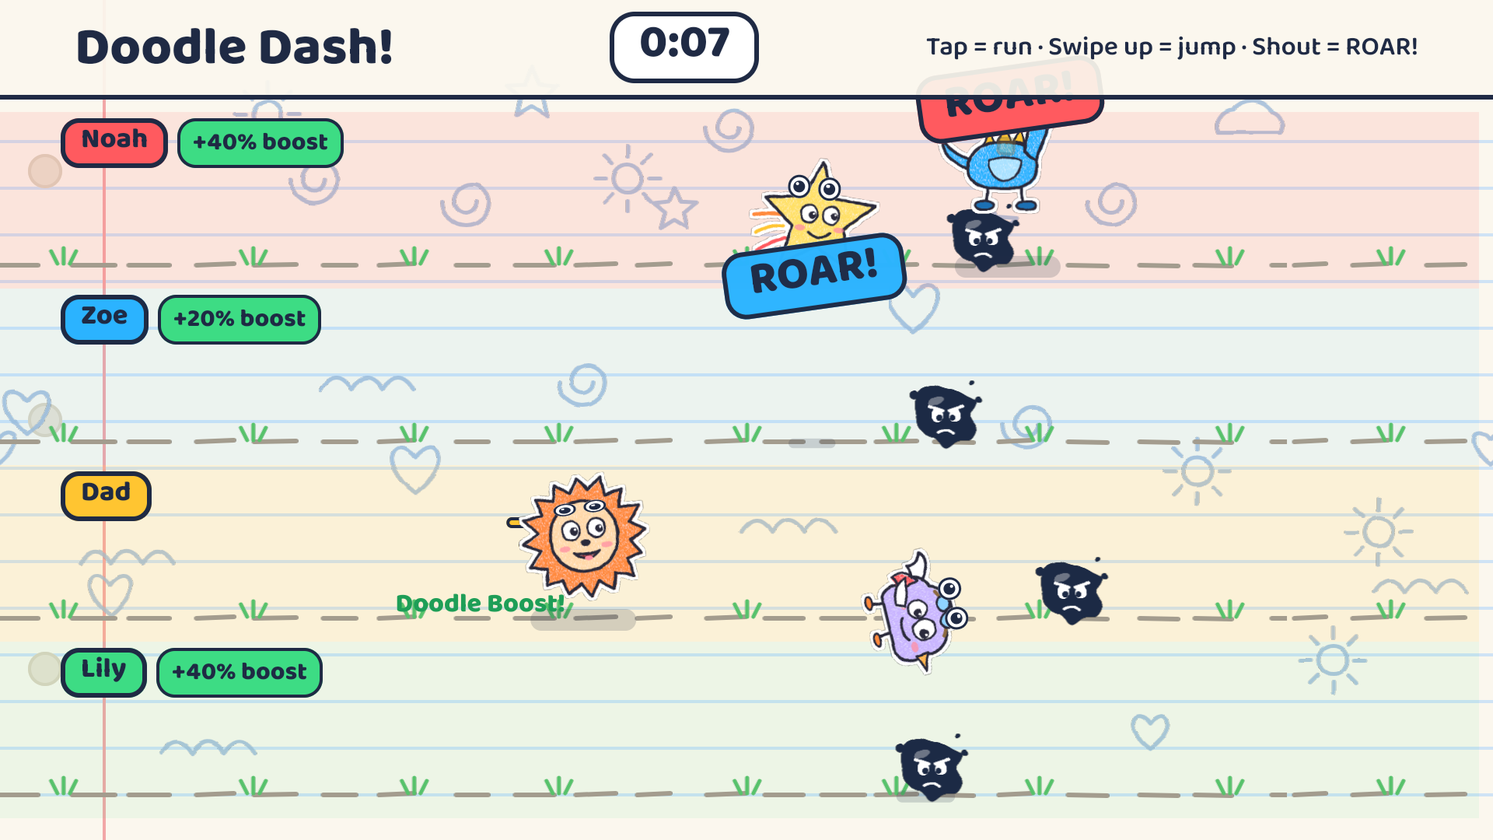
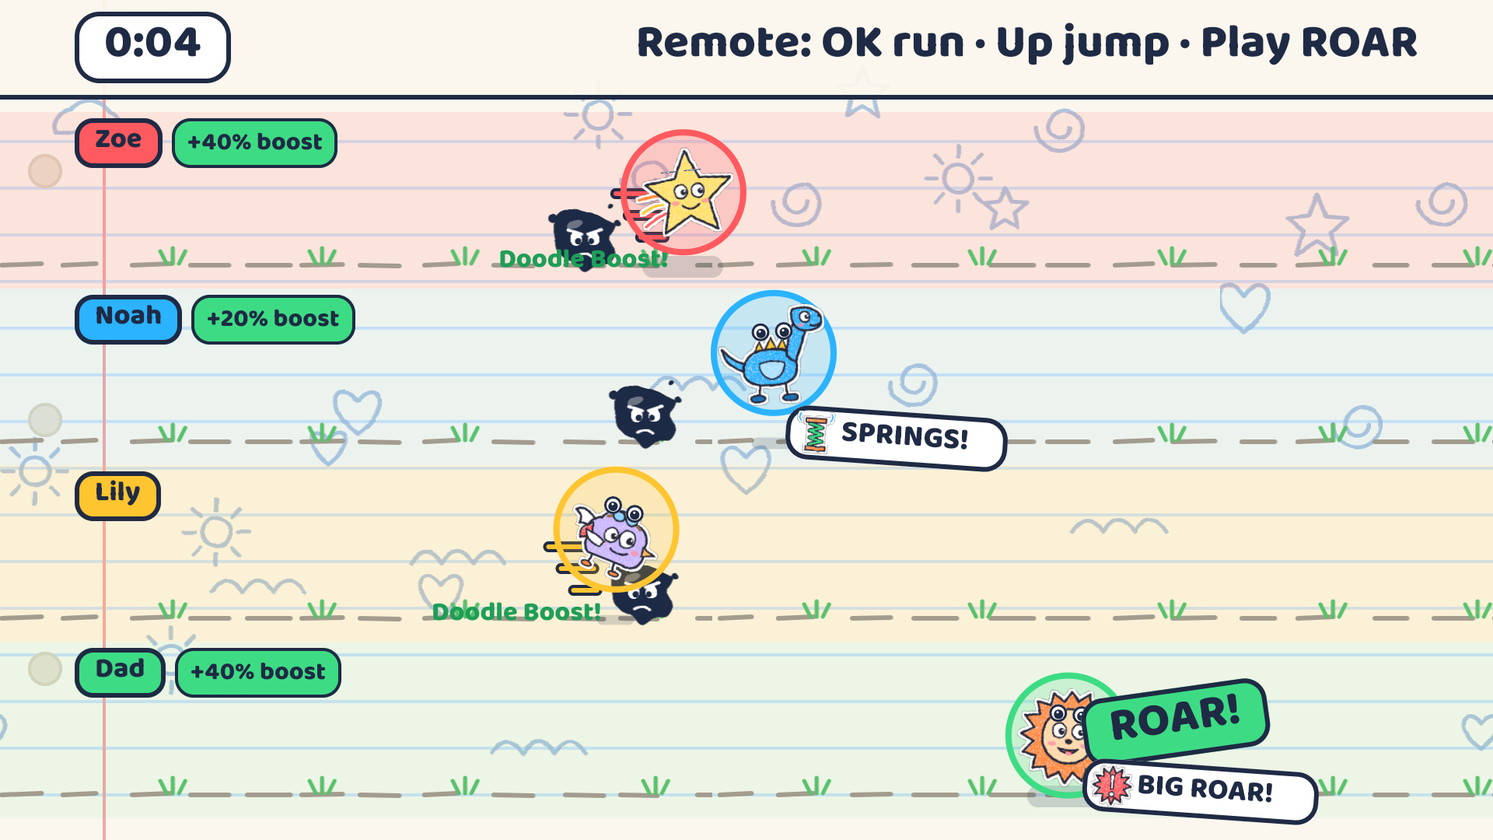
Notes: TV race-start freeze root cause (Vega watchdog deadlock), soak record, abilities, Race again, audio findings, F9-F11
Screenshots: reveal ability badge, ability pops (WINGS/SPRINGS/BIG ROAR) and
ROAR beside the head, finish caption, live race with fake phones, Hall of
Fame Race again, lobby with ability icons and a Hall of Fame guest. Outdated
reveal shots without the badge removed.

diff --git a/notes/tv.md b/notes/tv.md
@@ -12,25 +12,35 @@ None. The TV implements `shared/protocol.ts` as written (incl. eyes, ageGroup/AG
 | Race mounts (countdown starts) | `{phase:'race', data:{countdownMs: 2700, racers: playerId[], round}}` |
 | Results | `{phase:'results', data: ResultsData}` = `{placements:[{playerId, place}]}` |
 
+`racers` / `placements` can include `guest-<sketchlingId>` ids: Hall of Fame creatures picked with "Race again" that
+run as bots for their artist. No phone owns them.
+
 ## Build, run, drive (exact commands)
 
 ```sh
 source ~/vega/env
 cd tv && npm install                       # once (no .npmrc legacy-peer-deps: it breaks the CLI plugin, see F2)
-tv/scripts/vbuild.sh release --run         # build + install + launch on the VVD (works around F1: spaces in path)
+tv/scripts/vbuild.sh release --run         # build in a mirror dir + install + launch on the VVD (see F1, F9)
 MUTE=1 tv/scripts/vbuild.sh release --run  # same, sound off (use for automated runs and screen recording)
 tv/scripts/remote.sh right|left|up|down|select|back|menu|playpause [n]   # D-pad / remote keys
 tv/scripts/remote.sh shot out.png          # 1920x1080 screenshot (adb emu screenrecord screenshot)
 node tv/scripts/fake-phones.mjs <ROOM> [count] # simulated phones: join, upload a drawing, tap/jump/shout in the race
-cd tv && npx jest && npx tsc --noEmit -p . # race-sim + narrator-decoder tests, typecheck
+node tv/scripts/soak.mjs 20 [--live 4 --room CODE]  # race-start soak (demo or fake phones), flags a frozen countdown
+python3 -I tv/scripts/acr-stacks.py <acr> <libs/>  # every thread's native stack from an ACR's core dump (see F4)
+cd tv && npx jest && npx tsc --noEmit -p . # race sim + abilities balance + guests/demo + narrator tests, typecheck
 ```
 
 - Keys: `adb -s emulator-5554 shell inputd-cli button_press KEY_DOWN` (dev-mode `inputd-cli` exists on the VVD; no
-  `vsm developer-mode enable` needed). Codes used: KEY_UP/DOWN/LEFT/RIGHT/ENTER/BACK/MENU/PLAYPAUSE.
+  `vsm developer-mode enable` needed). Codes used: KEY_UP/DOWN/LEFT/RIGHT/ENTER/BACK/MENU/PLAYPAUSE. In JS,
+  KEY_PLAYPAUSE arrives as `eventType: 'play'` (not `'playpause'`); the race accepts both.
+- `soak.mjs` reads the screen with macOS Vision (`scripts/ocr.swift`, compiled on first use). Vision's `.accurate`
+  mode hung or crashed on this Mac; `.fast` takes 0.4 s but can't read the tilted room-code tiles, so live soaks use a
+  throwaway build whose first `hello` asks for a fixed room (`room: code.current ?? 'BNDR'` in a mirror copy of
+  `game/party.ts`) and pass `--room BNDR`.
 - If Unity is open, set `ADB=/Applications/Unity/Hub/Editor/6000.6.0f1/PlaybackEngines/AndroidPlayer/SDK/platform-tools/adb`
   before `remote.sh` (see F6).
 - Server: `src/config.ts` `HOST = '10.0.2.2:8787'` (VVD -> Mac). Real Fire TV: the Mac's LAN IP, rebuild.
-- In a race, **Menu** toggles the perf overlay: fps, JS ms/frame, loop restarts, input latency, audio state.
+- In a race, **Menu** toggles the perf overlay: fps, JS ms/frame, input latency, audio state.
 - Demo party: the remote plays for player 1 (OK = run, Up = jump, Play/Pause = ROAR); other lanes are bots.
 
 ## What is built (all verified on the VVD with screenshots in notes/shots/)
@@ -40,18 +50,34 @@ Vega OS"), Lobby (QR via `@amazon-devices/react-native-qrcode-svg`, room code, c
 badge), Reveal (paper tear, overshoot pop, name/title/"Drawn by", stat bars, intro bubble, voice), Doodle Dash
 (parallax notebook, lanes, move styles walk/hop/fly/roll, googly eyes with physics, ink blots + stun, Doodle Boost,
 age boost, ROAR with shake, 3-2-1-GO, finish caption, medals), Results (podium, crown, confetti, winLine bubble +
-voice), Hall of Fame (server list, focus-follow scroll, details panel), How to play, Demo party (offline, bundled art).
+voice), Hall of Fame (server list, focus-follow scroll, details panel, **Race again**), How to play, Demo party.
+**Abilities** ("what you draw changes how you play", `Sketchling.ability`, rules in `src/game/race.ts`): fly floats
+over ink blots (never stunned, small wing-flap lift), roll gets +10% after 1.5 s of flat ground, hop jumps 1.3x higher,
+1.45x longer and 7% faster in the air, walk's ROAR knocks the ink blots within 420 dp ahead out of its lane.
+Balanced by a 200-race bot test (each kind wins 15-36% with equal stats; fly 30 / roll 23 / hop 22 / walk 25 % in
+400 races). Shown as a sticker on the Reveal card ("Wide wings → Flies over ink blots!"), an icon on each Lobby chip
+and a WINGS! / WHEELS! / SPRINGS! / BIG ROAR! pop in the race when it helps. Entries without `ability` (older Hall of
+Fame) get one from `move` (`src/game/ability.ts`, same defaults as the server).
+**Race again**: OK on a focused Hall of Fame card puts that creature in the next party as a bot-run guest racer for its
+artist (OK again removes it; aria-label "Race again with <name>" / "<name>, racing next"; "Next race!" tag). The
+guests join whichever party starts next (live or demo, up to 6 players) and stay for "Play again"; leaving the party
+clears them. **Demo party** uses the newest Hall of Fame creatures (one per name, credited to their artists) when the
+hall has 2+, topped up with the bundled samples; offline it uses the samples.
 Fonts: Baloo 2 (OFL, `tv/assets/fonts`, `fontFamily` = file name). Art: our own SVGs (`tv/art-src/make-art.mjs`).
 Amazon skills used: `amazon-devices-vega-media-player` (audio setup/manifest), `amazon-devices-vega-app-performance`
-(KPI Visualizer). Their MCP server (`amazon-devices-buildertools-mcp`) was not connected in this session, so the
-docs were read on developer.amazon.com and from the package typings instead.
+(KPI Visualizer; on 21 Oct for the freeze, but its router needs the `amazon-devices-buildertools-mcp` server, which
+was not connected, so the freeze was debugged from ACR core dumps instead). Docs were read on developer.amazon.com and
+from the package typings.
 
 ## Measured on VVD (Vega Virtual Device, headless, macOS 27, Apple silicon)
 
 - **Cool start** (`vega exec perf kpi-visualizer --app-name com.starfungames.sketchlings.main --kpi cool-start-latency
   --iterations 3`): TTFF mean **408 ms** (min 192, max 553), TTFD mean **409 ms** (we call `useReportFullyDrawn` on
   Home's first frame), JS bundle load 17.6 ms. Targets: TTFF < 1.5 s, TTFD < 8 s.
-- **Race loop**: 57-65 fps, **0.1-1.2 ms JS per frame** (4-6 lanes), read from the in-app overlay.
+- **Race loop**: 57-65 fps, **0.1-1.2 ms JS per frame** (4-6 lanes), read from the in-app overlay (20 Oct). Since
+  21 Oct the loop is one `setTimeout` per frame (was rAF + 2 timeouts); fps not re-measured since.
+- **`requestAnimationFrame` on the headless VVD** fires ~7,600 times a second (measured 21 Oct with a bare rAF chain;
+  F3 saw ~1,250). A bare `setTimeout(0)` chain runs ~7,500/s.
 - **Input latency** (simulated phones on the Mac, server on the Mac): receive -> applied in the sim **7 ms** median;
   phone->TV delivery **+1 ms** median above the best observed delivery (jitter). The absolute phone->TV figure is not
   measurable from the TV alone: the VVD clock was **~2 h 11 min behind** the Mac (raw `recv - at` = -7,869,824 ms), so
@@ -67,16 +93,28 @@ docs were read on developer.amazon.com and from the package typings instead.
   audio.stream, audio.control, **audio.system** (without it the log says "Unable connect to 'com.amazon.audio.system'.
   Missing the permissions"), media.server, media.playersession. Narrator clips bundled as base64
   (`tv/scripts/bundle-narrator.mjs`), creature voices fetched + prefetched from `/voice/<id>/<line>.m4a`.
-- Result: `MediaSource.isTypeSupported` true; for both bundled narrator clips and server voice clips `appendBuffer`,
-  `endOfStream` and `play()` succeed (overlay: "audio MSE play() ok"); narrator clips fired `ended` in demo mode.
-  **Audibility could not be verified**: the headless VVD has no audio we can capture and `screenrecord` has no audio.
-- While a long creature voice played, the VVD's JS timers/rAF slowed to a crawl (see F7). Clips now never interrupt
-  each other (queue, narrator dropped while a voice plays). For screen recordings use `MUTE=1` and dub the server's
-  .m4a clips in the edit; verify sound on a real Fire TV.
+- Result (19-20 Oct): `MediaSource.isTypeSupported` true; for both bundled narrator clips and server voice clips
+  `appendBuffer`, `endOfStream` and `play()` succeed (overlay: "audio MSE play() ok"); narrator clips fired `ended`.
+- Proven on 21 Oct: **the VVD's audio reaches the Mac's speakers.** While the app plays clips, macOS `coreaudiod`
+  holds `PreventUserIdleSystemSleep ... "audio-out BuiltInSpeakerDevice", Created for PID <vega-virtual-device>`
+  (`pmset -g assertions`); during a soak with Reveal/Results clips it was re-created (age back to 0 s) every 7-23 s.
+  Not checked: whether it also appears with the app silent (`MUTE=1`). The
+  instance config has `hw.audioOutput = true` / `hw.audioInput = yes` (`~/vega/sdk/.../vvd/instances/*/
+  hardware-qemu.ini`), so the emulator also opens the **Mac microphone** ("audio-in BuiltInMicrophoneDevice" for the same
+  PID). Not proven: that the samples are non-silent. Nothing on the Mac can capture the VVD's output (no loopback
+  device installed, `screenrecord` has no audio track), so audibility still needs ears or a real Fire TV.
+- The race is silent since 21 Oct (no countdown narration, no ROAR sound, no catchphrase at the finish; captions carry
+  all of it). Voice and narrator play only on Reveal and Results, one clip at a time, never interrupted. A Reveal line
+  still queued when the race mounts is dropped (`hush()`); one already playing finishes (at most a few seconds into the
+  countdown). Every voiced line has an on-screen caption: Reveal intro = speech bubble, narrator "meet the Sketchlings"
+  = header, "winner is" = "<name> wins!" title, winLine = Results bubble; the finish catchphrase is a caption only.
+- For recordings and automated runs use `MUTE=1` (sets `SOUND = false`, no media stack at all); dub the server's .m4a
+  clips in the edit.
 
 ## Friction log (Vega SDK snags hit while building the TV app)
 
-**F1. Build fails when the project path contains spaces.** Task: `npm run build:release` in
+**F1. Build fails when the project path contains spaces.** (The repo moved to `~/Desktop/Sketchlings` on 21 Oct, so a
+direct `npm run build:release` in `tv/` works now, but see F9.) Task: `npm run build:release` in
 `~/Library/Application Support/.../tv`. Expected: build. Actual: `/bin/sh: /Users/harindu/Library/Application: No such
 file or directory` / "Unable to generate a manifest": `kepler-compatibility-metro-config` runs the manifest builder via
 `execSync` with an unquoted path. Severity: high (common macOS paths). Workaround: `tv/scripts/vbuild.sh` rsyncs the
@@ -90,22 +128,71 @@ confusing. Workaround: don't add the .npmrc; plain `npm install` resolves fine. 
 race ~10x too fast and starved JS timers (countdown never advanced). Workaround: pace frames to ~60 Hz with
 `setTimeout` and yield between frames. Severity: high for games. Suggestion: tie rAF to the compositor even headless.
 
-**F4. Intermittent JS stall at race start (AppNotResponding).** Steps: Demo party or live party, race mounts with ~30
-native-driven `Animated.Value`s updated by `setValue` each frame. Expected: countdown. Actual (about 1 in 4 races, more
-often with audio playing): stuck on "3"; JS still handles some key events, but `setTimeout`, rAF and Animated
-completion callbacks stop; Fabric mutation counter frozen in the log; after Back the LCM kills the app: ACR
-`CrashReason: AppNotResponding`, `LCM_ANR_REASON: Lifecycle Callback`, `JSThread ... No JavaScript code is currently
-being executed`, main thread parked in `libkeplerscript-4.so` (pull with `vega device copy-logs -a SYSTEM_TOMBSTONE/acr`).
-Log beforehand: `[AnimatedNode] updateNodeIfNecessary called for released parent`, `Illegal node tag set as input for
-AnimatedNode`, `Volta: Slow frame threshold exceeded, ms: 568`. Mitigations that helped (5/5 clean soak): build every
-Animated node once (`useMemo`, never in render), a "commit fence" (no `setValue` for 90 ms around each React update in
-the race), start the frame loop only after the native-attach animations complete, countdown + results timed by the
-frame loop, and remote/phone input re-kicks a loop that hasn't ticked for 500 ms. Calling `setValue` from inside an
-`Animated` value listener froze JS deterministically (don't). Severity: critical for animation-heavy apps.
-Suggestion: investigate native-animated vs Fabric commit locking on Vega; surface a JS stack in the ACR.
+**F4. Race-start freeze = a deadlock inside Vega's JS-thread watchdog (root-caused 21 Oct).** Symptom (19-20 Oct,
+about 1 race in 4 before mitigations, more with audio): the countdown sticks on "3", nothing JS-driven moves; after
+Back the LCM kills the app: ACR `CrashReason: AppNotResponding`, `LCM_ANR_REASON: Lifecycle Callback`, `JSThread
+thread ID: 18 / No JavaScript code is currently being executed`.
 
-**F5. Headless VVD crashes after ~2 h** with the same crashpad `UniversalExceptionRaise: (os/kern) failure (5)` as the
-GUI mode (FRICTION_LOG #1). `vega virtual-device start --no-gui --timeout 300` reboots in ~8 s; reinstall the app.
+*Evidence.* The ACR's `<minidump_stackwalk>` only unwinds the main thread, but every ACR also carries
+`<coredump_lz4_base64>`: an ELF core with all threads' registers and stacks. `tv/scripts/acr-stacks.py` decodes it,
+walks each thread's frame-pointer chain and names frames from the device's own libraries (`adb pull /usr/lib/...`).
+All 5 "Lifecycle Callback" ACRs from 20 Oct (09:15-13:43 UTC) show the same three threads:
+- JS thread (tid 18): `send()` ← `aceAsync_triggerSend` ← `aceAsync_deferredRemove` ← `AsyncHandler::cancel` ←
+  `orpheus::framework::utils::ThreadMonitor::stopTimer` ← `ThreadMonitor::resetTimer` ←
+  `volta::react::KeplerScriptThreadMonitor::sendHeartbeat` ← a RuntimeScheduler task. It is not running JS (hence "No
+  JavaScript code is currently being executed"), it is blocked in a syscall.
+- The watchdog's own loop thread (tid 20, spawned by `libframework-thread-monitor.so`): `pthread_mutex_lock` ←
+  `aceAsync_deferredPoll` ← `aceAsyncLoop_run`.
+- Main thread: `pthread_mutex_lock` ← `KeplerScriptThreadMonitor::appMovedToBackground` ← `onBackground` (the Back
+  press); the heartbeat timer thread is parked on the same mutex in `requestHeartbeat`.
+Disassembly of `libasync.so.0` (VVD build): `aceAsync_triggerInit` makes the wake-up channel with
+`socketpair(AF_UNIX, SOCK_DGRAM, 0)` (blocking); `aceAsync_triggerSend` is a blocking `send(fd, msg, 16, 0)`;
+`aceAsync_deferredRemove` calls it **between `pthread_mutex_lock` and `unlock` of the loop's deferred-work mutex**;
+the loop reads one 16-byte message per `epoll_wait` and must take that same mutex in `aceAsync_deferredPoll`. In
+`libkeplerscript-4.so.4`, `MessageQueue` wraps every JS task in `KeplerScriptThreadMonitor::startTimer()/stopTimer()`,
+which call the orpheus `ThreadMonitor` (vtable slots `startTimer`/`stopTimer`) → `AsyncHandler::post/cancel` → one
+wake-up message each; heartbeats call `resetTimer` (cancel + post).
+
+*Root cause.* When the watchdog loop thread falls behind the JS thread by the socket's send buffer (`wmem_default`
+212,992 bytes on the VVD = a few hundred queued 16-byte datagrams), the JS thread's next `send()` blocks **while
+holding the deferred mutex**; the only thread that could drain the socket then blocks on that mutex before it reads:
+a permanent ABBA deadlock. The JS thread never runs again; the watchdog can't fire its own "Thread Monitor" ANR because
+its loop is one of the deadlocked threads, so the app just hangs until a lifecycle callback (Back) needs the
+`KeplerScriptThreadMonitor` mutex and the LCM kills it. It is a platform bug; the app can only avoid feeding it.
+Race start was the worst moment: one long mount commit, ~40 zero-duration native "attach" animations with completion
+callbacks, a frame loop of 3 JS tasks per frame (rAF + `setTimeout(0)` + a pacing timeout), w3cmedia narration, all
+on a VVD whose vCPUs stall when the Mac is loaded (on 21 Oct the Mac had 16 GB RAM, 16 of 17 GB swap in use, load
+30+). The 6th ACR (13:22, `LCM_ANR_REASON: Thread Monitor`) is a different hang: JS thread blocked on a mutex inside
+`libW3CMedia.so` (that is F7).
+
+*What could not be reproduced on purpose* (a stress screen, 21 Oct, healthy VVD): a 7,600/s rAF chain, a 7,500/s
+`setTimeout(0)` chain (also with 240 native-animated views spinning), 470/s native `Animated` listener events, a
+listener that calls `setValue` on another value, and single long JS tasks of 0.5, 2 and 5 s all kept running. A 10 s
+task is killed correctly by the watchdog after ~8 s ("Thread 'JSReactThread' (18) detected to be unresponsive"). The
+20 Oct note that "calling `setValue` from an Animated listener froze JS deterministically": setting the *same* value
+from its own listener recurses ("RangeError: Maximum call stack size exceeded", fatal) - a crash, not this freeze.
+So the trigger needs the watchdog thread to be starved while the JS thread churns tasks, which we could only see at
+race start on a loaded Mac.
+
+*Fix (Race.tsx, 21 Oct).* Starve the bug of messages instead of working around symptoms: the frame loop is exactly
+one `setTimeout` task per frame; race values are native from birth (`new Animated.Value(v, {useNativeDriver: true})`),
+so the ~40 attach animations and their callbacks at race start are gone; the race is silent (no w3cmedia work, queued
+voice lines dropped at mount). Removed the 20 Oct workarounds that targeted a wrong theory (commit fence, loop
+"kick" restarts: a blocked JS thread runs nothing, so they could never help). Soak: see "Soak record" below.
+Severity: critical (an app hangs for good and the watchdog misses it). Suggestion to Amazon: don't hold the deferred
+mutex across `send()`, make the trigger non-blocking and coalescing (one pending wake-up is enough, e.g. an eventfd
+or `MSG_DONTWAIT`), and don't post/cancel a watchdog timer for every JS task (stamp an atomic and check it from a
+periodic timer). Also: unwind all threads in `<minidump_stackwalk>`; the data is already in the ACR.
+
+**F5. Headless VVD crashes** with crashpad `UniversalExceptionRaise: (os/kern) failure (5)` (as the GUI mode,
+FRICTION_LOG #1). 20 Oct: after ~2 h. 21 Oct: 4 times in 12 minutes, even idle with no app running, each time right
+after `ERROR | detected a hanging thread 'QEMU2 main loop'. No response for 15015 ms` (and every vCPU thread) in
+`vvd/instances/*/virtual_device.err`; twice preceded by `coreaudio: Could not initialize record ...
+kAudioHardwareIllegalOperationError` (the emulator opens the Mac microphone). The Mac (16 GB) had 16 of 17 GB swap in
+use and load 30+ from other jobs: the emulator's own hang detector aborts it when the host swaps it out. Workaround:
+`vega virtual-device start --no-gui --timeout 300` (boots in ~10 s), reinstall, and keep memory free while testing.
+Suggestion: make the hang detector tolerate host stalls (or say "host stalled 15 s" instead of crashing); allow
+`--no-audio` on `vega virtual-device start`.
 
 **F6. Two adb versions fight.** `vega` / Homebrew adb 37.0.1 vs Unity Editor's adb 36.0.0 (Unity running `-adb2`
 restarts its server): every switch kills the other's server ("daemon not running; starting now", "device offline"),
@@ -115,19 +202,68 @@ Suggestion: `vega` could use its own adb port or report the version clash.
 **F7. Audio activity degrades JS scheduling on the VVD.** While the w3cmedia AudioPlayer plays a 5 s clip and another
 clip replaces the `srcObject`, frames drop to 0-15 fps and the countdown stalls; `ended` never fires for the replaced
 clip. Workaround: never interrupt a playing clip; build with `MUTE=1` for recordings. Unknown if real hardware is affected.
+The 13:22 ACR on 20 Oct (`LCM_ANR_REASON: Thread Monitor`) shows the JS thread blocked on a mutex inside
+`libW3CMedia.so` with a JS frame in the w3cmedia bundle: another way audio can hang JS. Since 21 Oct the race plays
+no audio at all.
 
 **F8. Docs/tooling gaps.** `expo-font` is "not supported" for RN 0.83, but plain `assets/fonts/*.ttf` +
-`fontFamily: '<file name>'` works (the family name does not). `loggingctl log -v <pkg>` shows native logs but no
-`console.log` output from release builds. The Amazon Devices Builder Tools skills need an MCP server that is not set up
+`fontFamily: '<file name>'` works (the family name does not). `loggingctl log -v <pkg>` shows native logs and fatal
+JS errors (`[KeplerScript-JavaScript]` with a stack) but no `console.log` output from release builds. The Amazon Devices Builder Tools skills need an MCP server that is not set up
 by the skill install. `vega exec perf kpi-visualizer` fails "Network calls time" validation when an app makes no
-network calls at launch ("-1 != -1").
+network calls at launch ("-1 != -1"). 21 Oct: with the MCP connected, `symbolicate_acr` (gdb mode, `deviceId:
+emulator-5554`) failed with "Failed to copy .../temp_acr_debugFs/acr_libraries.txt to emulator-5554", so
+`tv/scripts/acr-stacks.py` remains the way to read an ACR's threads.
+
+**F9. Building in place rewrites `manifest.toml`.** `npm run build:release` in `tv/` appends five `[[needs.module]]`
+entries (kepler_media_controls, keplermediadescriptor, keplerscript_4, svg_3, w3cmedia_2) to the source
+`manifest.toml`, so every build leaves a diff. Workaround: keep building through `tv/scripts/vbuild.sh` (mirror dir).
+Suggestion: write the generated manifest to `build/`.
+
+**F10. `adjustsFontSizeToFit` does nothing on Vega**, so long creature names ("Little Marshmallow") were cut off with
+"..." on Reveal and in the Hall of Fame. Workaround: `fitFont(text, width, max)` in `components/Bits.tsx` (Baloo 2
+bold ≈ 0.54 em per character). Suggestion: implement it or document it as unsupported.
+
+**F11. The VVD's renderer froze after a rotated tag in a rounded clipped card (and a ✓ glyph) appeared.** After
+picking a creature in the Hall of Fame the picture stopped updating (two stale frames alternating, parts of the
+screen blank) while JS kept running: Back really went Home, but nothing redrew until the app went to the background
+and came back. The new view was a `rotate: '6deg'` "Racing next!" tag inside the card's rounded, clipped box (plus a
+"✓" glyph from a fallback font). A straight tag inside the corners and no ✓ fixed it (a pick and three focus moves after
+it redraw fine; which of the two did it was not isolated). `virtual_device.err` is full of `sPrepareTexImage2D ...
+failed validation`. Not checked on real hardware. Suggestion: fix or document the clip path; the app gets no error at all.
+
+## Soak record (race starts on the VVD, `tv/scripts/soak.mjs`)
+
+| build | party | race starts | frozen |
+|---|---|---|---|
+| 20 Oct final (before the fix), sound on | demo | 12 (run on 21 Oct) | 0 |
+| fix step 1 (1 task/frame, silent race, no fence/kick) | demo | 12 | 0 |
+| + native-from-birth values + abilities (21 Oct, ~00:00) | demo | 10 | 0 |
+| **final** (21 Oct, commit afdb370), sound on | demo | **10** | **0** |
+| **final** + fixed room code (soak-only) | live, 4 fake phones (10 rounds) | **10** | **0** |
+
+Final build: 20 race starts, 0 frozen; 42 since the fix. Sessions that lost keys to adb restarts (F6) or hit a VVD
+crash (F5) never reached a race and are not counted. Shots of every race (+4.5 s and +6 s) were checked by the soak
+for a stuck countdown and for a still screen.
+
+The old build also passed on 21 Oct, so a clean soak alone doesn't prove the fix; the proof is the mechanism (F4)
+plus removing the app's share of the watchdog traffic at race start. Freezes on 20 Oct happened with the Mac under
+heavy load; the VVD itself kept crashing under the same load on 21 Oct (F5).
 
 ## Open issues
 
-- F4 is mitigated, not root-caused; soak on a real Fire TV before filming there. On the VVD, film with `MUTE=1`.
-- Hall of Fame "race again" (retention loop) not built.
-- Audio audibility unverified (VVD).
-- Not visually re-verified after the last changes: the FINISH caption (winner's catchphrase bubble) and the ROAR pill's
-  new position beside the head (it was verified at the old position, 04h). Lane clamp, colour rings and the 30 dp hint
-  are verified (04b-04d). Shots 04f/04h predate the ring/lane change.
-- Soak record for the final build: 4/4 demo races + replays clean, plus 1 on a freshly rebooted VVD.
+- F4 is a platform deadlock; the app now gives it far less to chew on but cannot rule it out. Soak on a real Fire TV
+  before filming there; on the VVD film with `MUTE=1` and keep the Mac's memory free (F5).
+- Audio audibility unverified (the VVD's output reaches the Mac speakers, see Audio outcome, but nothing captured it).
+- The Hall of Fame on the server is full of test creatures (fake-phone uploads: 41 entries, mostly "Little
+  Marshmallow" / "Professor Tumble"); the Demo party now shows them. Clear `server/data` before filming.
+- Audio on the VVD is fragile beyond F7: an ACR from a soak on 21 Oct (18:55 UTC) is a SIGSEGV inside
+  `libkepler_media_player.so` (media thread), and while the Hall of Fame picture was frozen (F11) w3cmedia kept
+  logging "No Time update even in Playing state: 0.951" every 250 ms (a player stuck mid-clip). Another reason to
+  film on the VVD with `MUTE=1`.
+- Unity's `-adb2` asset worker kept restarting the adb server on 21 Oct (F6), so soak sessions sometimes lost keys
+  and failed to reach a race; those are counted as "failed to start", never as passes.
+- After the live soaks the Hall of Fame's newest creatures are all fake-phone uploads that the server gave the `walk`
+  ability, so the Demo party currently shows four walkers (only BIG ROAR pops). Clear `server/data` before filming
+  (or check the server's shape detection); with the bundled samples the demo has walk, hop, fly and roll.
+- The offline eye finder put a second pair of googly eyes above some fake-phone drawings (server side, seen on the
+  star "Little Marshmallow").
